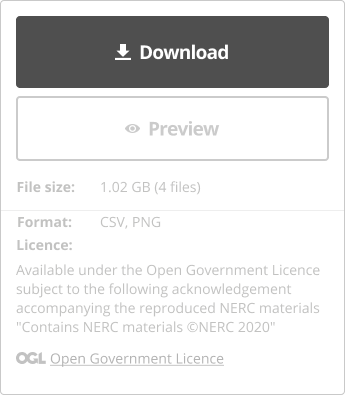
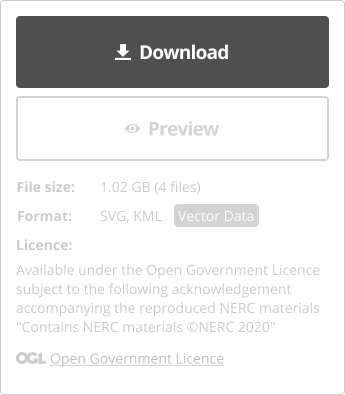
added details about raster and vector files

Changed region(s): [[0.4928, 0.5165, 0.7536, 0.5772], [0.029, 0.5165, 0.2029, 0.5772], [0.2899, 0.5165, 0.4638, 0.5772]]

diff --git a/docs/main-content/steps/assess-dataset-relevance.md b/docs/main-content/steps/assess-dataset-relevance.md
@@ -71,7 +71,7 @@ If there are multiple ways to access data (e.g. API access), instructions should
 
 <div class="image-container">
 
-![Download link, file details and license information for a](../../_media/assess-dataset-relevance/download-panel.png)
+![Download link, file details and license information](../../_media/assess-dataset-relevance/download-panel.png)
 
 *Download link*
 
@@ -89,7 +89,19 @@ Clearly show the geographical extent of the data (pin on the map or polygon of a
 
 </div>
 
-### 10. Additional metadata
+### 10. File format
+
+Two primary formats for spatial data are [vector and raster](https://en.wikipedia.org/wiki/GIS_file_formats). It was discovered in our research that users would like to know the data format before downloading any file(s). Making this information easily findable will help them make an informed decision on whether this data will be useful for their specific task or problem.
+
+<div class="image-container">
+
+![Data format information next to download link](../../_media/assess-dataset-relevance/vector-raster.png)
+
+*Data format information next to download link*
+
+</div>
+
+### 11. Additional metadata
 
 Additional metadata can have less visibility in order to reduce the visual clutter on the screen by being displayed in a less prominant location such as different tabs or dropdown menus.
 
@@ -101,7 +113,7 @@ Additional metadata can have less visibility in order to reduce the visual clutt
 
 </div>
 
-### 11. Related datasets
+### 12. Related datasets
 
 Related datasets can help users to discover and explore similar datasets. They can be displayed in a list or map view. 
 
